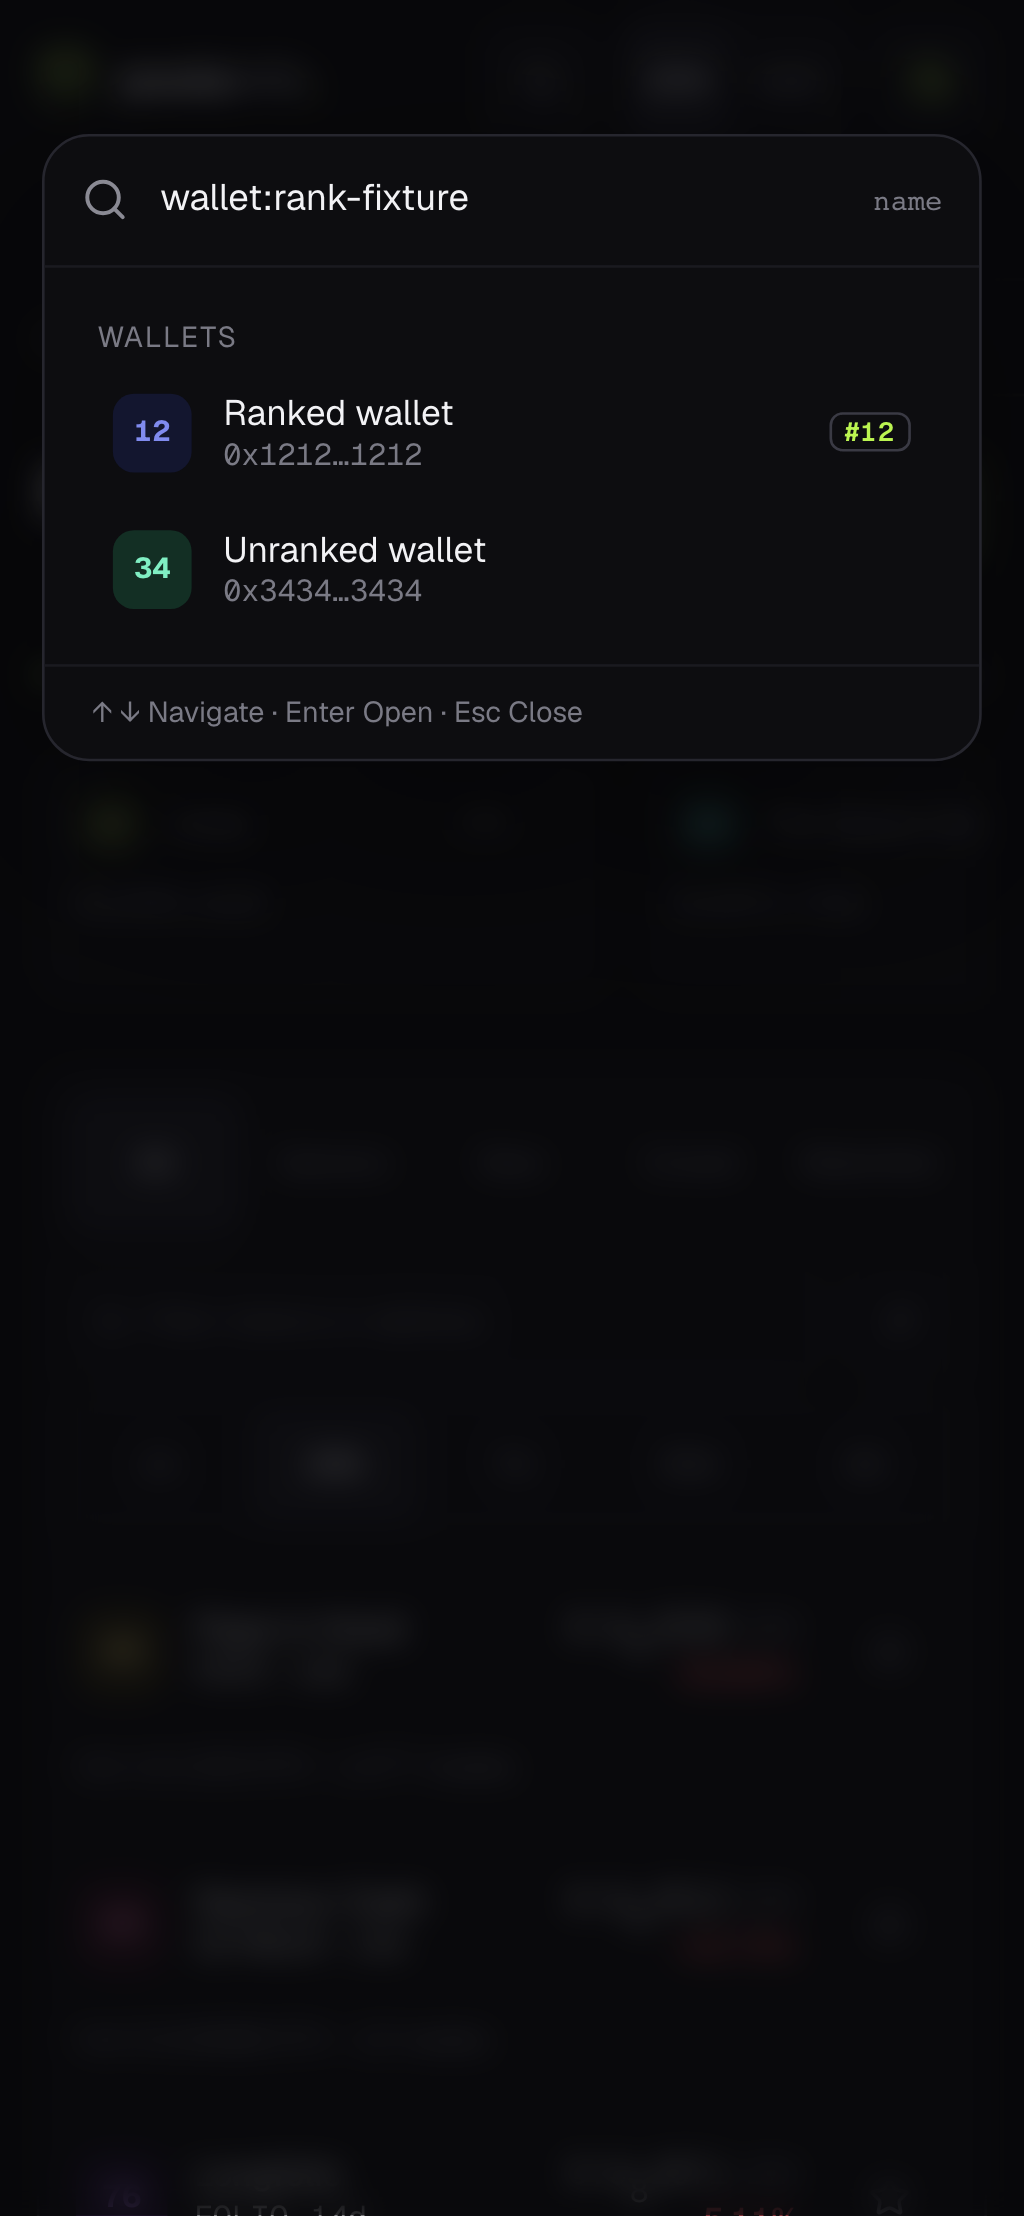
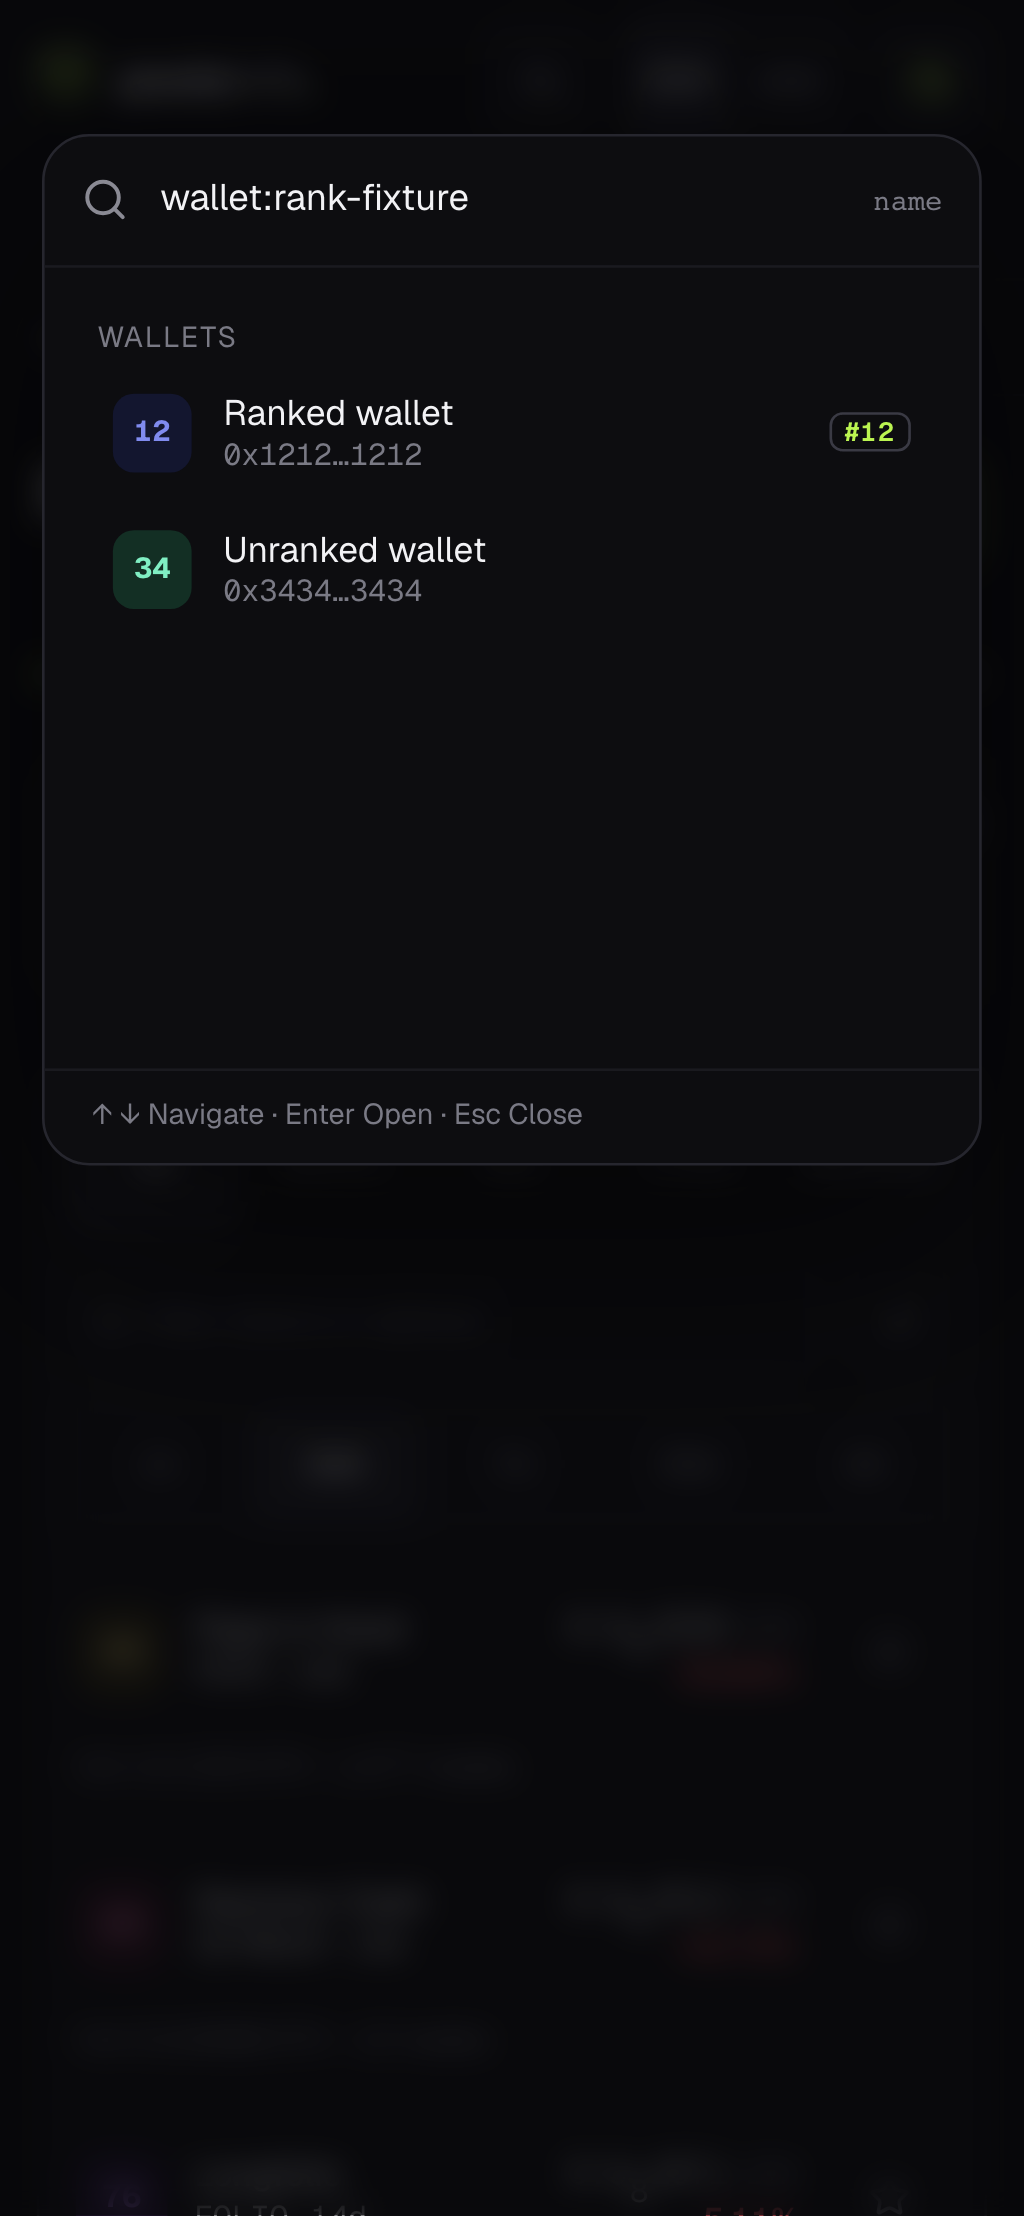
fix(web): reserve search palette results height

diff --git a/tests/e2e/search-rank.spec.ts b/tests/e2e/search-rank.spec.ts
@@ -80,6 +80,11 @@ test("search shows only a ranked wallet's chip without moving rows", async ({
   await dialog.getByRole("textbox").fill("wallet:rank-fixture");
   await expect.poll(() => requested).toBe(true);
   await expect(dialog.locator('[data-skeleton="search"]')).toBeVisible();
+  const footer = dialog.locator(".search-dialog-footer");
+  const pendingFooterY = (await footer.boundingBox())!.y;
+  // Let Chrome's recent-input window expire before releasing the answer.
+  // Otherwise it suppresses a real footer shift from the CLS score.
+  await page.waitForTimeout(650);
   await page.evaluate(() => {
     (window as Window & { rankShift: { score: number } }).rankShift.score = 0;
   });
@@ -95,6 +100,7 @@ test("search shows only a ranked wallet's chip without moving rows", async ({
   const rankedBox = await ranked.boundingBox();
   const unrankedBox = await unranked.boundingBox();
   expect(rankedBox?.height).toBe(unrankedBox?.height);
+  expect((await footer.boundingBox())!.y).toBe(pendingFooterY);
   await page.evaluate(
     () =>
       new Promise<void>((resolve) =>
@@ -107,7 +113,4 @@ test("search shows only a ranked wallet's chip without moving rows", async ({
         (window as Window & { rankShift: { score: number } }).rankShift.score,
     ),
   ).toBe(0);
-  await page.screenshot({
-    path: `docs/evidence/search-rank-2026-09-29/palette-${width}.png`,
-  });
 });

diff --git a/apps/web/src/components/detail-design.module.css b/apps/web/src/components/detail-design.module.css
@@ -332,6 +332,9 @@
   color: var(--faint);
 }
 .search :global(.search-results) {
+  /* The pending skeleton is 285px tall. Keep its 10px top and bottom padding
+     in the settled pane so the footer never moves when results arrive. */
+  height: 305px;
   max-height: calc(100% - 86px);
   overflow: auto;
   padding: 10px 8px;
